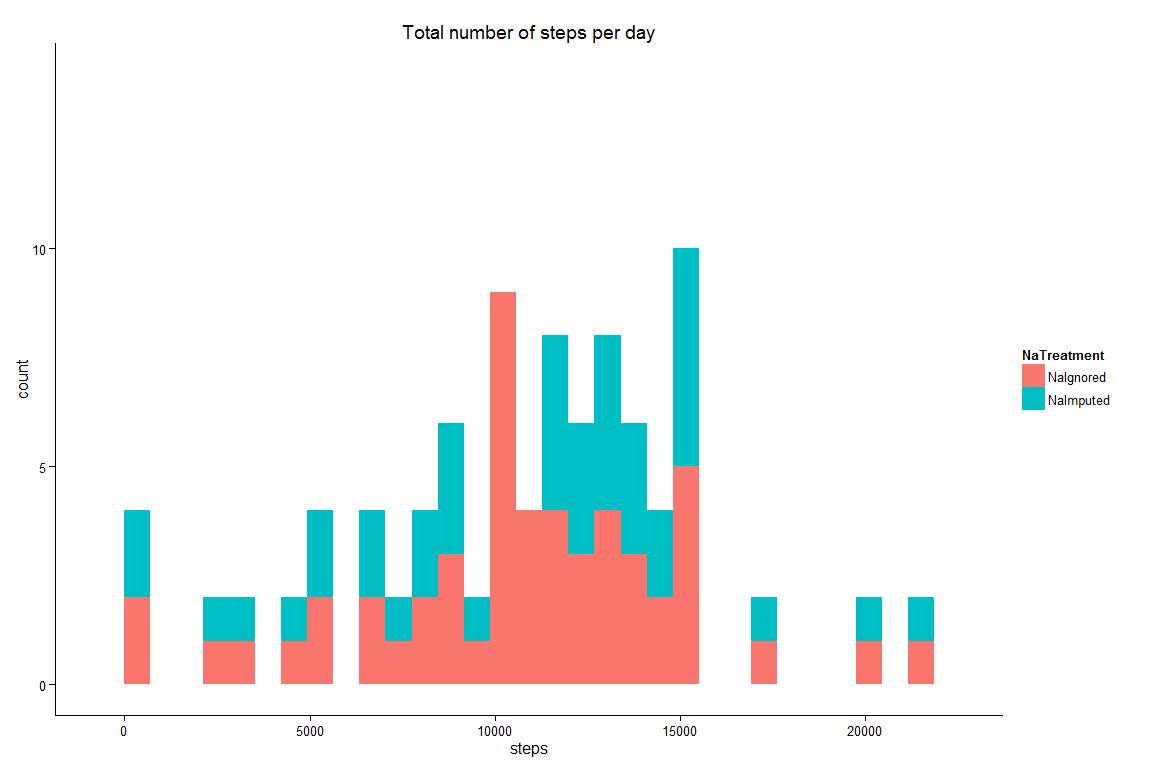
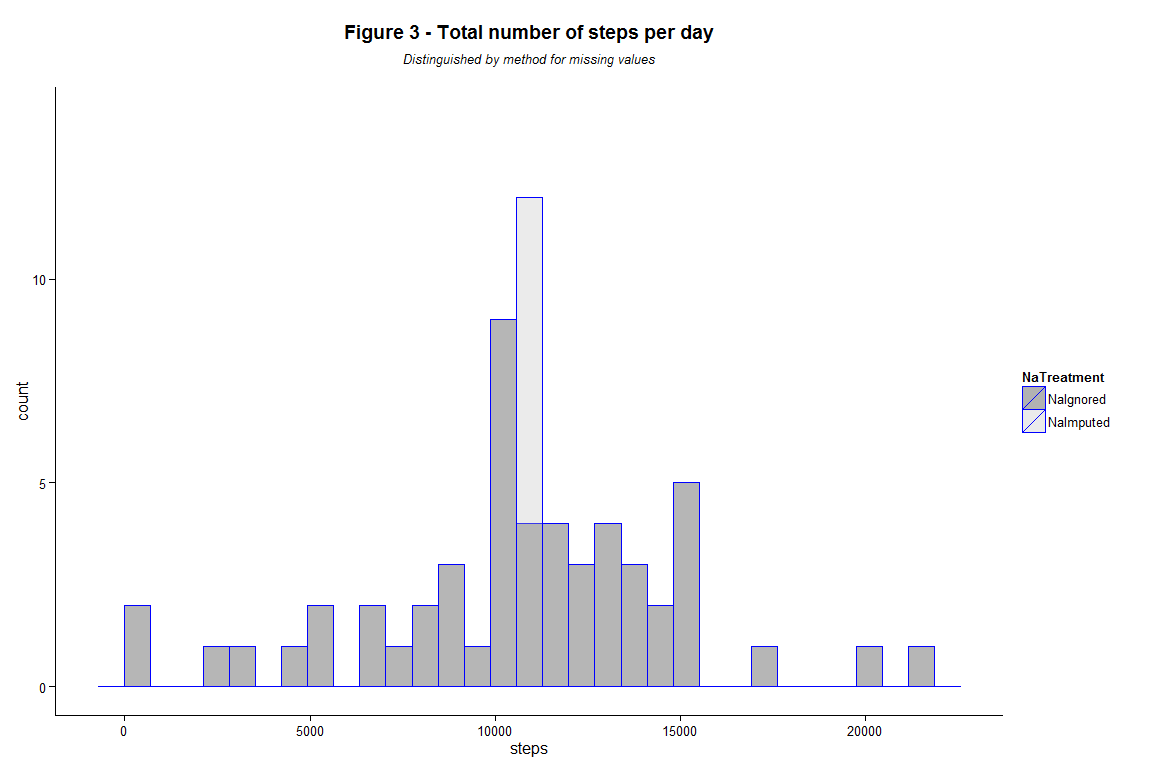
PA1, Part 4H istogram combo chart done

diff --git a/PA1_template.html b/PA1_template.html
@@ -421,17 +421,9 @@ dt_diffdaysNo0 &lt;- sqldf(&quot;SELECT stepsum, date
                       FROM dt_diffdays
                       Where stepsum &lt;&gt; 0
                       Group by date&quot;)
-dt_diffdaysNo0</code></pre>
-<pre><code>##   stepsum       date
-## 1   10641 2012-10-01
-## 2   10641 2012-10-08
-## 3   10641 2012-11-01
-## 4   10641 2012-11-04
-## 5   10641 2012-11-09
-## 6   10641 2012-11-10
-## 7   10641 2012-11-14
-## 8   10641 2012-11-30</code></pre>
-<pre class="r"><code># UNION (dt_dailysteps + category = nonimputed) and (dt_dailysteps3 + category = imputed)
+dt_diffdaysNo0 &lt;- data.table(dt_diffdaysNo0)
+
+# UNION (dt_dailysteps + category = nonimputed) and (dt_dailysteps3 + category = imputed)
 FactImpNot &lt;- 1:nrow(dt_dailysteps)
 FactImp &lt;- 1:nrow(dt_dailysteps2)
 
@@ -450,20 +442,27 @@ dt_dailyUnion &lt;- (sqldf(&quot;SELECT * from dt_dailyStepsCat
                             ORDER BY date&quot;))
 dt_dailyUnion &lt;- data.table(dt_dailyUnion)
 
+# sum(dt_dailyStepsCat$stepsum)
+# sum(dt_dailySteps2Cat$stepsum)
+
 # Histogram of number of steps per day
-h2 &lt;- ggplot(data=dt_dailyUnion, aes(dt_dailyUnion$steps, fill = NaTreatment))
+h3 &lt;- ggplot(data=dt_dailyUnion, aes(dt_dailyUnion$steps, fill = NaTreatment))
 
 
-h2 &lt;- h2 + geom_histogram()
-h2 &lt;- h2 + theme_classic()
-h2 &lt;- h2 + ggtitle(&quot;Total number of steps per day&quot;) + xlab(&quot;steps&quot;)
-h2 &lt;- h2 + ylim(0, 14)
-plot(h2)</code></pre>
[1 lines of base64/hex data omitted]
+h3 &lt;- h3 + geom_histogram(alpha = 0.3, colour = &quot;blue&quot;, position=&quot;identity&quot;)
+h3 &lt;- h3 + scale_fill_manual(values = c(&quot;black&quot;, &quot;grey&quot;))
+h3 &lt;- h3 + theme_classic()
+h3 &lt;- h3 + ggtitle(&quot;Figure 3 - Total number of steps per day&quot;) + xlab(&quot;steps&quot;)
+h3 &lt;- h3 + ylim(0, 14)
+h3 &lt;- h3 +  theme(plot.title = element_text(lineheight=.8, face=&quot;bold&quot;))
+h3 &lt;- h3 + ggtitle(expression(atop(bold(&quot;Figure 3 - Total number of steps per day&quot;), atop(italic(&quot;Distinguished by method for missing values&quot;), &quot;&quot;))))
+plot(h3)</code></pre>
[1 lines of base64/hex data omitted]
 <pre class="r"><code>#setwd(&quot;C:/repos_github/coursera/repres&quot;)
 #ggsave(filename = &quot;Histogram Number of Steps no missing values.pdf&quot;, plot = h1)</code></pre>
 <p>The previous table shows the sum of the steps that have been added to the data set due to missing values.The fact that the sum of <strong>10641</strong> is equal for all days reveals an interesting detail. It turns out that all dates with missing values, have missing values for all intervals, and that there is no missing interval for all dates contained in the data set. This means that it would not matter much if the imputing process replaced missing values for each and every interval, or for each date only.</p>
 <p>It also means that it’s not possible to add any particular value to the analysis by replacing missing values in this example. It would have made much more sense if the original dataset was missing observations for <strong>some intervals</strong> for some days. In this case, it would be possible to add to the value of the analysis, particularly if the same intervals were not missing accross very many days.</p>
+<p>This can be further illustrated by combining the two previous histograms in Figure 1 and Figure 2. Notice that the number of days in the previous table is 8, and that the sum of steps for each day is 10641. The histogram in Figure 3 shows an increase of eight counts in the bin where 10641 is located. The value added to the analysis by including more dates with no observations, I would say is pretty close to zero.</p>
 </div>
 </div>
 <div id="are-there-differences-in-activity-patterns-between-weekdays-and-weekends" class="section level2">
@@ -504,6 +503,7 @@ head(dt_imputed2, 5)</code></pre>
 ## 3:     0 2012-10-01       10   weekday
 ## 4:     0 2012-10-01       15   weekday
 ## 5:     0 2012-10-01       20   weekday</code></pre>
+<p>The table above shows how the new variable is added to the imputed data set..</p>
 </div>
 <div id="make-a-panel-plot" class="section level3">
 <h3>5.2 - Make a panel plot</h3>

diff --git a/PA1_template.md b/PA1_template.md
@@ -1,12 +1,4 @@
----
-title: "Reproducible Research - Peer Assessment 1"
-header-includes: \usepackage{caption}
-output:
-  html_document:
-    keep_md: true
-  
-fig_caption: no
----
+# Reproducible Research - Peer Assessment 1
 
 
 
@@ -128,7 +120,7 @@ h1 <- h1 + ylim(0, 14)
 plot(h1)
 ```
 
-![plot of chunk Part 2.2 - Histogram](figure/Part 2.2 - Histogram-1.png) 
+![](PA1_template_files/figure-html/Part 2.2 - Histogram-1.png) 
 
 
 ### 2.3 - Calculate and report the mean and median of the total number of steps taken per day
@@ -248,7 +240,7 @@ The following figure shows a plot from the previous table.
 plot(p1)
 ```
 
-![plot of chunk Part 3.1 Plot](figure/Part 3.1 Plot-1.png) 
+![](PA1_template_files/figure-html/Part 3.1 Plot-1.png) 
 
 
 ### 3.2 Which 5-minute interval, on average across all the days in the dataset, contains the maximum number of steps?
@@ -432,7 +424,7 @@ Below is a histogram showing the distribution of steps after missing values have
 plot(h2)
 ```
 
-![plot of chunk Part 4.4.1](figure/Part 4.4.1-1.png) 
+![](PA1_template_files/figure-html/Part 4.4.1-1.png) 
 
 Comparing the histogram in figure 3 with the histogram in figure 1 shows that the imputed data set leads to an increased number of observations at the center of the distribution. Let us take a quick look at why this happens by taking the difference between each observation in the imputed data set and another table where all missing values are replaced by zero.
 
@@ -484,22 +476,8 @@ dt_diffdaysNo0 <- sqldf("SELECT stepsum, date
                       FROM dt_diffdays
                       Where stepsum <> 0
                       Group by date")
-dt_diffdaysNo0
-```
+dt_diffdaysNo0 <- data.table(dt_diffdaysNo0)
 
-```
-##   stepsum       date
-## 1   10641 2012-10-01
-## 2   10641 2012-10-08
-## 3   10641 2012-11-01
-## 4   10641 2012-11-04
-## 5   10641 2012-11-09
-## 6   10641 2012-11-10
-## 7   10641 2012-11-14
-## 8   10641 2012-11-30
-```
-
-```r
 # UNION (dt_dailysteps + category = nonimputed) and (dt_dailysteps3 + category = imputed)
 FactImpNot <- 1:nrow(dt_dailysteps)
 FactImp <- 1:nrow(dt_dailysteps2)
@@ -519,18 +497,24 @@ dt_dailyUnion <- (sqldf("SELECT * from dt_dailyStepsCat
                             ORDER BY date"))
 dt_dailyUnion <- data.table(dt_dailyUnion)
 
+# sum(dt_dailyStepsCat$stepsum)
+# sum(dt_dailySteps2Cat$stepsum)
+
 # Histogram of number of steps per day
-h2 <- ggplot(data=dt_dailyUnion, aes(dt_dailyUnion$steps, fill = NaTreatment))
+h3 <- ggplot(data=dt_dailyUnion, aes(dt_dailyUnion$steps, fill = NaTreatment))
 
 
-h2 <- h2 + geom_histogram()
-h2 <- h2 + theme_classic()
-h2 <- h2 + ggtitle("Figure 3 - Total number of steps per day") + xlab("steps")
-h2 <- h2 + ylim(0, 14)
-plot(h2)
+h3 <- h3 + geom_histogram(alpha = 0.3, colour = "blue", position="identity")
+h3 <- h3 + scale_fill_manual(values = c("black", "grey"))
+h3 <- h3 + theme_classic()
+h3 <- h3 + ggtitle("Figure 3 - Total number of steps per day") + xlab("steps")
+h3 <- h3 + ylim(0, 14)
+h3 <- h3 +  theme(plot.title = element_text(lineheight=.8, face="bold"))
+h3 <- h3 + ggtitle(expression(atop(bold("Figure 3 - Total number of steps per day"), atop(italic("Distinguished by method for missing values"), ""))))
+plot(h3)
 ```
 
-![plot of chunk Part 4.4.2](figure/Part 4.4.2-1.png) 
+![](PA1_template_files/figure-html/Part 4.4.2-1.png) 
 
 ```r
 #setwd("C:/repos_github/coursera/repres")
@@ -540,6 +524,8 @@ plot(h2)
 The previous table shows the sum of the steps that have been added to the data set due to missing values.The fact that the sum of **10641** is equal for all days reveals an interesting detail. It turns out that all dates with missing values, have missing values for all intervals, and that there is no missing interval for all dates contained in the data set. This means that it would not matter much if the imputing process replaced missing values for each and every interval, or for each date only. 
 
 It also means that it's not possible to add any particular value to the analysis by replacing missing values in this example. It would have made much more sense if the original dataset was missing observations for **some intervals** for some days. In this case, it would be possible to add to the value of the analysis, particularly if the same intervals were not missing accross very many days.
+
+This can be further illustrated by combining the two previous histograms in Figure 1 and Figure 2. Notice that the number of days in the previous table is 8, and that the sum of steps for each day is 10641. The histogram in Figure 3 shows an increase of  eight counts in the bin where 10641 is located. The value added to the analysis by including more dates with no observations, I would say is pretty close to zero.
 
 
 ## 5 - Are there differences in activity patterns between weekdays and weekends?
@@ -590,6 +576,7 @@ head(dt_imputed2, 5)
 ## 4:     0 2012-10-01       15   weekday
 ## 5:     0 2012-10-01       20   weekday
 ```
+The table above shows how the new variable is added to the imputed data set..
 
 ### 5.2 - Make a panel plot
 
@@ -687,7 +674,7 @@ p3 <- p3 + ylim(0, 260)
 plot(p3)
 ```
 
-![plot of chunk Part 5.2](figure/Part 5.2-1.png) 
+![](PA1_template_files/figure-html/Part 5.2-1.png) 
 
 Comparing the pattern for average number of steps for each interval for weekdays versus weekends shows that the maximum number of steps is quite a bit lower and appears later in the day on weekends. In other words, you tend to get up later in the weekends and run around less. Sounds sweet.
 
